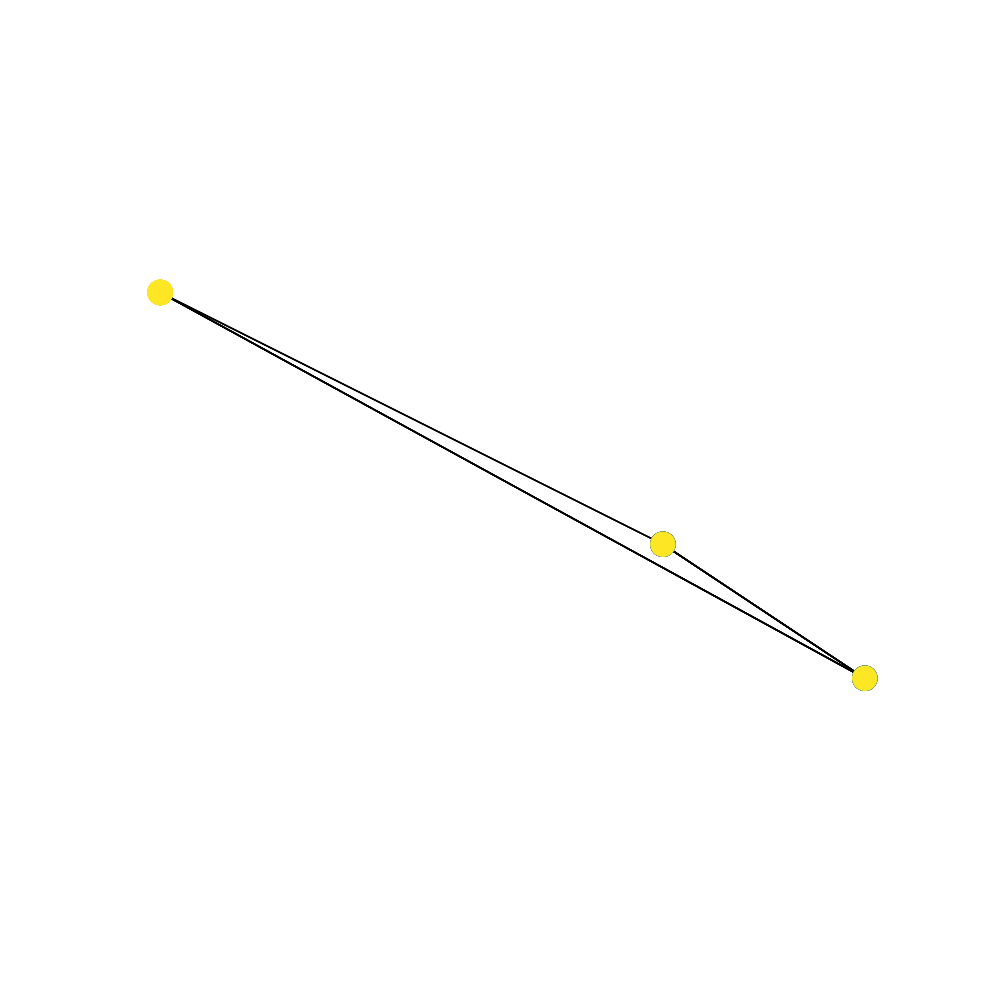
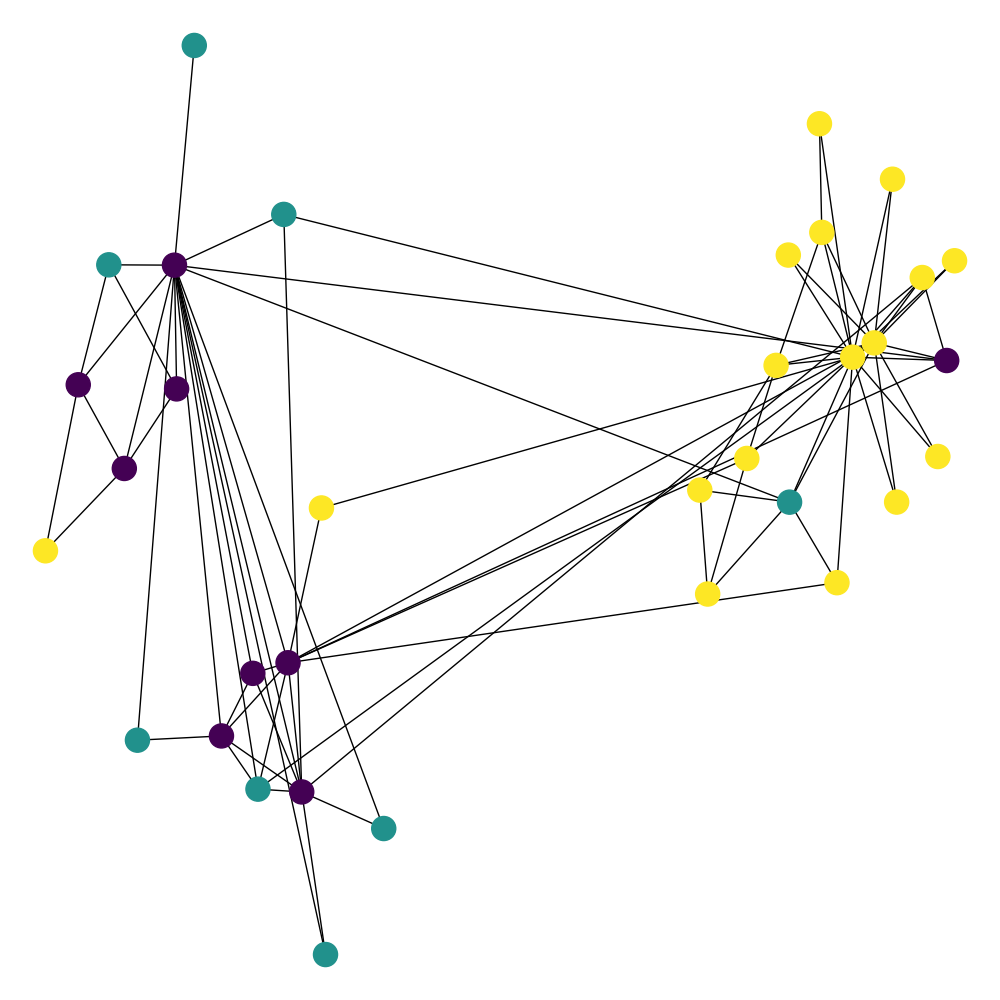
Test draw.py

diff --git a/utils/draw.py b/utils/draw.py
@@ -11,9 +11,7 @@ def draw_community(filepath, community_list, savepath):
             partition[str(node)] = i
 
     plt.figure(figsize=(10,10))
-    plt.ylim(-5.0, 5.0)
     pos = _community_layout(g, partition)
-    print(pos)
     nx.draw(g, pos, node_color=list(partition.values()))
     plt.savefig(savepath)
 
@@ -46,8 +44,7 @@ def _community_layout(g, partition):
     # combine positions
     pos = dict()
     for node in g.nodes():
-        # pos[node] = pos_communities[node] + pos_nodes[node]
-        pos[node] = pos_communities[node]
+        pos[node] = pos_communities[node] + pos_nodes[node]
 
     return pos
 
